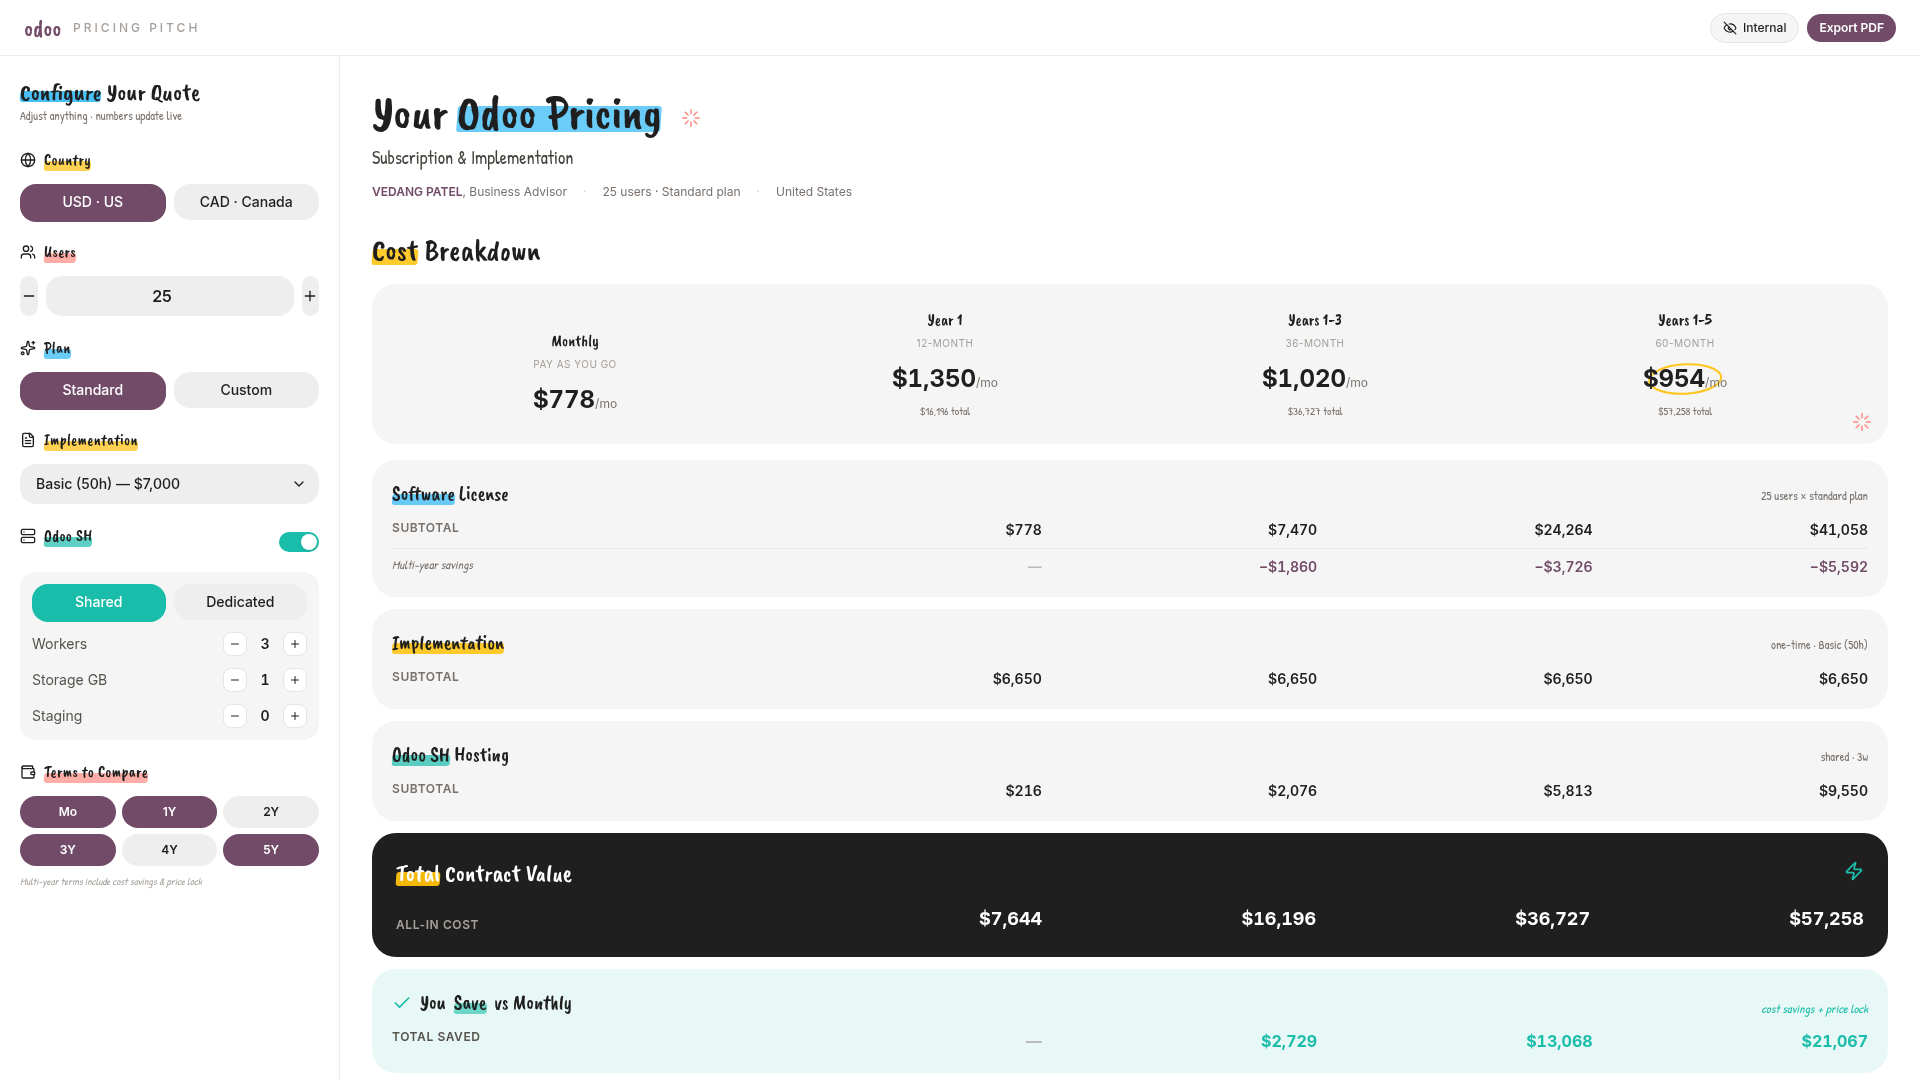
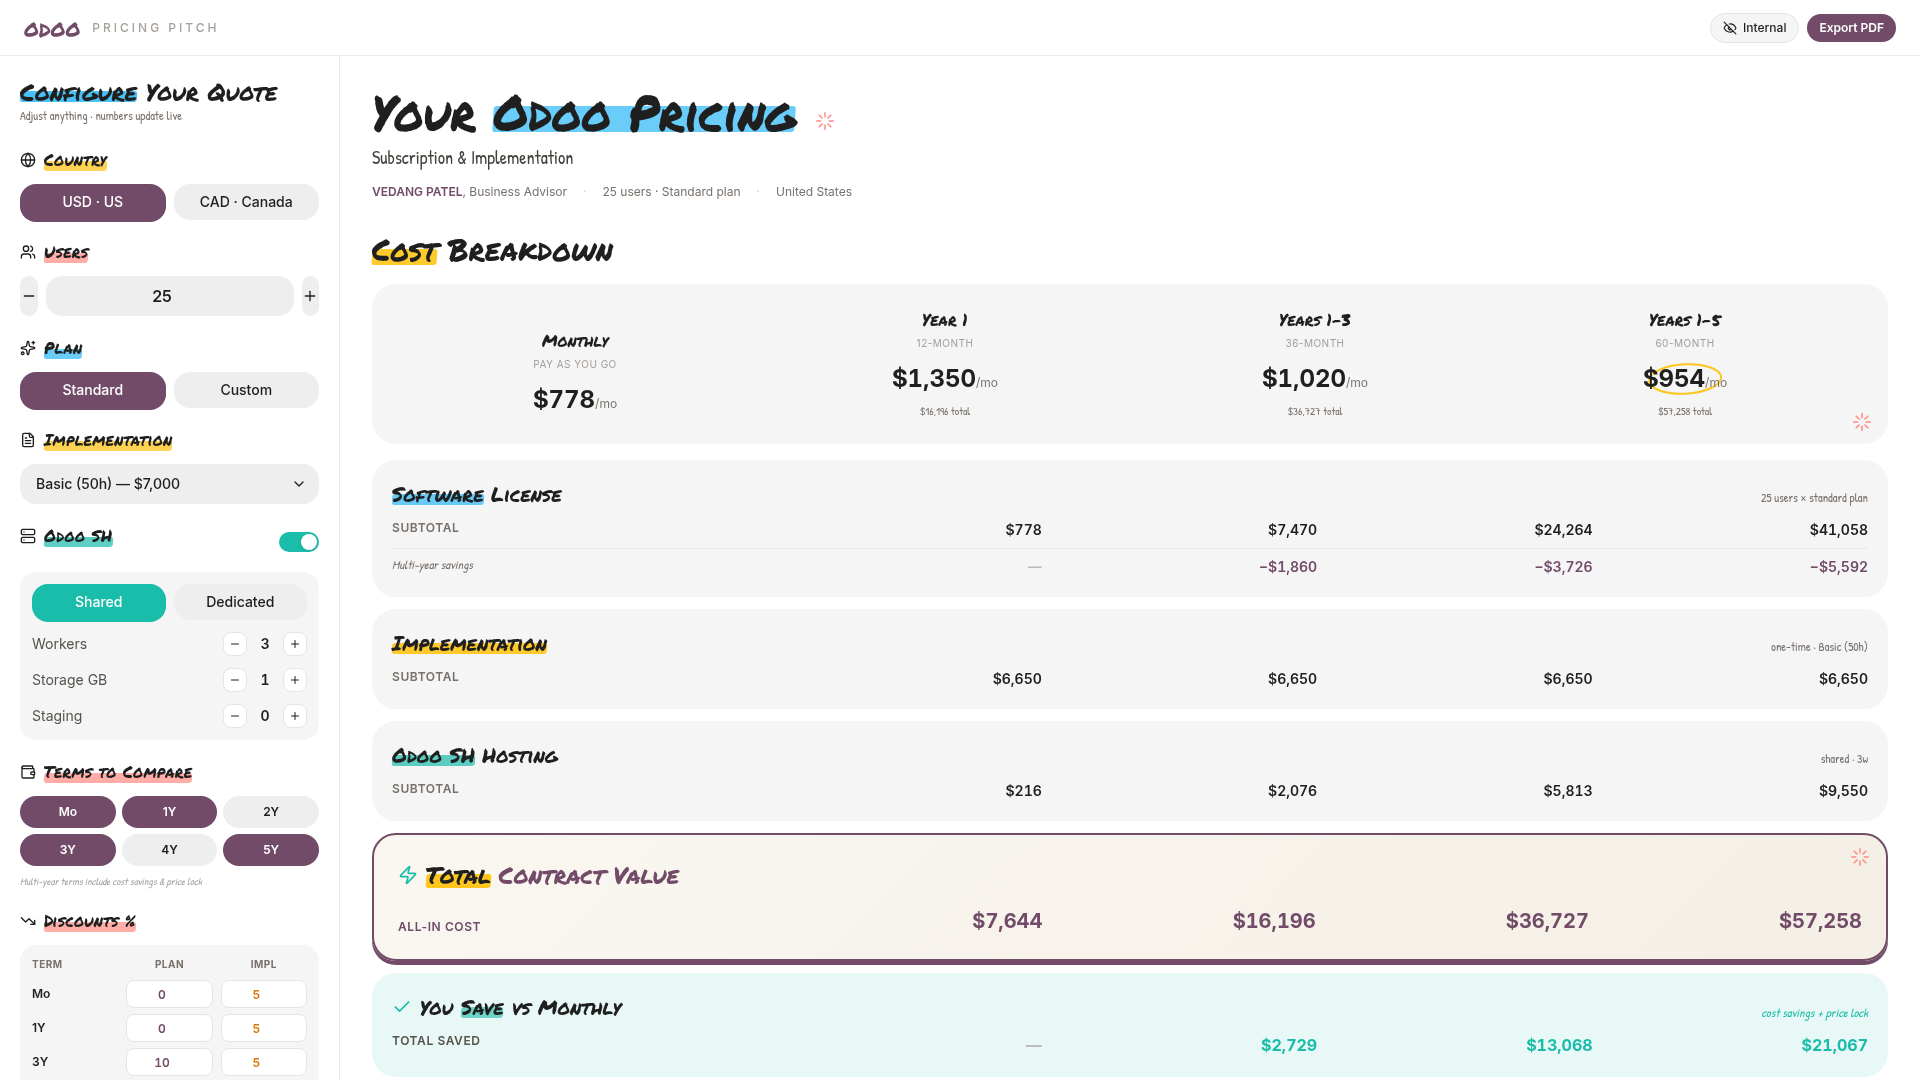
Enhance branded calculator mockup with interactive discounts and updated styling
Introduce a discount editing UI, update fonts to "Permanent Marker", refine card and band styling with cream/purple accents, and improve accessibility.

Replit-Commit-Author: Agent
Replit-Commit-Session-Id: 3d8e539f-c7fe-4d8f-8fbb-2aa09cfe4ce4
Replit-Commit-Checkpoint-Type: full_checkpoint
Replit-Commit-Event-Id: 24954e97-7e36-4e56-8fa7-3e2a61fc00f1
Replit-Commit-Screenshot-Url: https://storage.googleapis.com/screenshot-production-us-central1/c086b602-bdac-43aa-948f-36a5edc0eb58/3d8e539f-c7fe-4d8f-8fbb-2aa09cfe4ce4/TQv2wC8
Replit-Helium-Checkpoint-Created: true

diff --git a/artifacts/mockup-sandbox/src/components/mockups/odoo-calculator/InvestmentBrandPitch.tsx b/artifacts/mockup-sandbox/src/components/mockups/odoo-calculator/InvestmentBrandPitch.tsx
@@ -135,7 +135,7 @@ const BRAND = {
   cardAlt: "#F5F5F5",
 };
 
-const FONT_BRUSH = `'Caveat Brush', 'Permanent Marker', cursive`;
+const FONT_BRUSH = `'Permanent Marker', 'Caveat Brush', cursive`;
 const FONT_HAND = `'Patrick Hand', 'Architects Daughter', cursive`;
 const FONT_BODY = `'Inter', 'DM Sans', sans-serif`;
 
@@ -259,7 +259,7 @@ export function InvestmentBrandPitch() {
     monthly: true, "1year": true, "2year": false, "3year": true, "4year": false, "5year": true,
   });
 
-  const [discounts] = useState<Record<TermKey, { plan: number; impl: number }>>({
+  const [discounts, setDiscounts] = useState<Record<TermKey, { plan: number; impl: number }>>({
     monthly: { plan: 0, impl: 5 },
     "1year": { plan: 0, impl: 5 },
     "2year": { plan: 5, impl: 5 },
@@ -615,6 +615,73 @@ export function InvestmentBrandPitch() {
               Multi-year terms include cost savings & price lock
             </p>
           </div>
+
+          {/* Discounts editor */}
+          <div className="mb-5">
+            <SectionLabel icon={TrendingDown} color={BRAND.coral}>Discounts %</SectionLabel>
+            <div className="rounded-2xl p-3" style={{ background: BRAND.cardAlt }}>
+              <div className="grid grid-cols-3 gap-2 mb-2 text-[10px] font-bold tracking-wider uppercase text-stone-500">
+                <span>Term</span>
+                <span className="text-center">Plan</span>
+                <span className="text-center">Impl</span>
+              </div>
+              {activeTerms.map((t) => {
+                const planApplies = TERM_MONTHS[t] / 12 > 1;
+                return (
+                  <div key={t} className="grid grid-cols-3 gap-2 mb-1.5 items-center">
+                    <span className="text-xs font-semibold" style={{ fontFamily: FONT_BODY, color: BRAND.ink }}>
+                      {TERM_LABELS[t].short}
+                    </span>
+                    {planApplies ? (
+                      <input
+                        type="number"
+                        min={0}
+                        max={50}
+                        value={discounts[t].plan}
+                        onChange={(e) =>
+                          setDiscounts({
+                            ...discounts,
+                            [t]: { ...discounts[t], plan: Math.max(0, Math.min(50, parseInt(e.target.value) || 0)) },
+                          })
+                        }
+                        className="w-full h-7 text-center text-xs font-semibold rounded-lg outline-none bg-white border border-stone-200 tabular-nums"
+                        style={{ color: BRAND.purple, fontFamily: FONT_BODY }}
+                        aria-label={`${TERM_LABELS[t].short} plan discount percent`}
+                        data-testid={`input-disc-plan-${t}`}
+                      />
+                    ) : (
+                      <div
+                        className="w-full h-7 text-center text-xs rounded-lg bg-stone-100 border border-stone-200 flex items-center justify-center text-stone-400"
+                        title="Plan discount applies to multi-year terms only"
+                        aria-label={`${TERM_LABELS[t].short} plan discount not applicable`}
+                      >
+                        —
+                      </div>
+                    )}
+                    <input
+                      type="number"
+                      min={0}
+                      max={50}
+                      value={discounts[t].impl}
+                      onChange={(e) =>
+                        setDiscounts({
+                          ...discounts,
+                          [t]: { ...discounts[t], impl: Math.max(0, Math.min(50, parseInt(e.target.value) || 0)) },
+                        })
+                      }
+                      className="w-full h-7 text-center text-xs font-semibold rounded-lg outline-none bg-white border border-stone-200 tabular-nums"
+                      style={{ color: "#D97706", fontFamily: FONT_BODY }}
+                      aria-label={`${TERM_LABELS[t].short} implementation discount percent`}
+                      data-testid={`input-disc-impl-${t}`}
+                    />
+                  </div>
+                );
+              })}
+              <p className="mt-2 text-[10px] text-stone-400 italic" style={{ fontFamily: FONT_HAND }}>
+                Plan % applies years 2+ · Impl % is one-time
+              </p>
+            </div>
+          </div>
         </aside>
 
         {/* ── MAIN PANEL ── */}
@@ -771,22 +838,35 @@ export function InvestmentBrandPitch() {
                 </div>
               )}
 
-              {/* Total Contract — hero row, deck slide 4 styling */}
+              {/* Total Contract — cream + purple hero (no black) */}
               <div
-                className="rounded-3xl p-6 relative overflow-hidden"
-                style={{ background: BRAND.ink, color: "#FFFFFF" }}
+                className="rounded-3xl p-6 relative overflow-hidden border-2"
+                style={{
+                  background: "linear-gradient(135deg, #FAF7F1 0%, #F4EFE6 100%)",
+                  borderColor: BRAND.purple,
+                  boxShadow: `0 4px 0 ${BRAND.purple}`,
+                }}
               >
+                <div className="absolute top-3 right-4">
+                  <Sparkle color={BRAND.coral} />
+                </div>
                 <div className="flex items-baseline justify-between mb-4">
-                  <h3 className="text-2xl" style={{ fontFamily: FONT_BRUSH }}>
-                    <Marker color={BRAND.yellow} opacity={0.95} height="45%">Total</Marker>{" "}
-                    <span className="text-white">Contract Value</span>
+                  <h3 className="text-2xl flex items-center gap-2" style={{ fontFamily: FONT_BRUSH, color: BRAND.ink }}>
+                    <Zap className="w-5 h-5" style={{ color: BRAND.teal }} />
+                    <Marker color={BRAND.yellow} opacity={0.9} height="45%">Total</Marker>{" "}
+                    <span style={{ color: BRAND.purple }}>Contract Value</span>
                   </h3>
-                  <Zap className="w-5 h-5" style={{ color: BRAND.teal }} />
                 </div>
                 <div className="grid gap-2" style={{ gridTemplateColumns: `1.4fr repeat(${quotes.length}, 1fr)` }}>
-                  <span className="text-xs uppercase tracking-wider text-stone-400 font-semibold self-end">All-in cost</span>
+                  <span className="text-xs uppercase tracking-wider font-semibold self-end" style={{ color: BRAND.purple }}>
+                    All-in cost
+                  </span>
                   {quotes.map((q) => (
-                    <div key={q.termKey} className="text-right tabular-nums text-lg font-bold text-white">
+                    <div
+                      key={q.termKey}
+                      className="text-right tabular-nums text-xl font-bold"
+                      style={{ color: BRAND.purple, fontFamily: FONT_BODY }}
+                    >
                       {fmt0(q.totalContract)}
                     </div>
                   ))}
@@ -819,30 +899,37 @@ export function InvestmentBrandPitch() {
             </div>
           </div>
 
-          {/* ── INTERNAL · MRR / NRR — standalone partner card ── */}
+          {/* ── INTERNAL · MRR / NRR — partner-only cream card ── */}
           {internalView && (
-            <div className="mb-8 rounded-3xl p-6 relative" style={{ background: BRAND.ink, color: "#FFFFFF" }}>
+            <div
+              className="mb-8 rounded-3xl p-6 relative border-2"
+              style={{
+                background: "linear-gradient(135deg, #FAF7F1 0%, #F4EFE6 100%)",
+                borderColor: BRAND.purple,
+                borderStyle: "dashed",
+              }}
+            >
               <div className="flex items-center justify-between mb-4">
                 <div className="flex items-center gap-3">
                   <div
                     className="w-9 h-9 rounded-full flex items-center justify-center"
-                    style={{ background: "rgba(255,193,7,0.15)" }}
+                    style={{ background: `${BRAND.purple}1A` }}
                   >
-                    <Lock className="w-4 h-4" style={{ color: BRAND.yellow }} />
+                    <Lock className="w-4 h-4" style={{ color: BRAND.purple }} />
                   </div>
                   <div>
-                    <h3 className="text-xl leading-none" style={{ fontFamily: FONT_BRUSH }}>
-                      <Marker color={BRAND.yellow} opacity={0.95} height="45%">Partner</Marker>{" "}
-                      <span className="text-white">Recurring Revenue</span>
+                    <h3 className="text-xl leading-none" style={{ fontFamily: FONT_BRUSH, color: BRAND.ink }}>
+                      <Marker color={BRAND.yellow} opacity={0.85} height="45%">Partner</Marker>{" "}
+                      <span style={{ color: BRAND.purple }}>Recurring Revenue</span>
                     </h3>
-                    <p className="text-[11px] text-stone-400 mt-1" style={{ fontFamily: FONT_HAND }}>
+                    <p className="text-[11px] text-stone-500 mt-1" style={{ fontFamily: FONT_HAND }}>
                       Internal only · Partner share {Math.round(PARTNER_RECURRING_PCT * 100)}%
                     </p>
                   </div>
                 </div>
                 <span
-                  className="text-[10px] font-semibold tracking-wider uppercase px-2.5 py-1 rounded-full"
-                  style={{ background: "rgba(255,255,255,0.08)", color: BRAND.yellow }}
+                  className="text-[10px] font-semibold tracking-wider uppercase px-2.5 py-1 rounded-full text-white"
+                  style={{ background: BRAND.purple }}
                 >
                   Internal
                 </span>
@@ -850,25 +937,22 @@ export function InvestmentBrandPitch() {
 
               <div className="grid grid-cols-2 gap-4">
                 {[
-                  { label: "MRR", subtitle: "software + hosting / mo", icon: Repeat, getValue: (q: TermQuote) => (q.softwareSubtotal + q.shSubtotal) / q.months },
-                  { label: "NRR", subtitle: "net partner payout / mo", icon: Wallet, getValue: (q: TermQuote) => ((q.softwareSubtotal + q.shSubtotal) / q.months) * PARTNER_RECURRING_PCT },
+                  { label: "MRR", icon: Repeat, getValue: (q: TermQuote) => (q.softwareSubtotal + q.shSubtotal) / q.months },
+                  { label: "NRR", icon: Wallet, getValue: (q: TermQuote) => ((q.softwareSubtotal + q.shSubtotal) / q.months) * PARTNER_RECURRING_PCT },
                 ].map((row) => (
-                  <div key={row.label} className="rounded-2xl p-4" style={{ background: "rgba(255,255,255,0.05)" }}>
-                    <div className="flex items-center gap-1.5 mb-2">
-                      <row.icon className="w-3.5 h-3.5" style={{ color: BRAND.yellow }} />
-                      <span className="text-xs font-bold tracking-[0.2em] uppercase" style={{ color: BRAND.yellow }}>
+                  <div key={row.label} className="rounded-2xl p-4 bg-white/60 border border-stone-200">
+                    <div className="flex items-center gap-1.5 mb-3">
+                      <row.icon className="w-3.5 h-3.5" style={{ color: BRAND.purple }} />
+                      <span className="text-xs font-bold tracking-[0.2em] uppercase" style={{ color: BRAND.purple }}>
                         {row.label}
                       </span>
                     </div>
-                    <p className="text-[10px] text-stone-400 italic mb-2" style={{ fontFamily: FONT_HAND }}>
-                      {row.subtitle}
-                    </p>
                     <div className="space-y-1">
                       {quotes.map((q) => (
                         <div key={q.termKey} className="flex justify-between items-baseline text-sm">
-                          <span className="text-stone-400 text-[11px]">{TERM_LABELS[q.termKey].short}</span>
-                          <span className="font-semibold text-white tabular-nums">
-                            {fmt0(row.getValue(q))}<span className="text-[10px] text-stone-500 font-normal">/mo</span>
+                          <span className="text-stone-500 text-[11px]">{TERM_LABELS[q.termKey].short}</span>
+                          <span className="font-semibold tabular-nums" style={{ color: BRAND.ink }}>
+                            {fmt0(row.getValue(q))}
                           </span>
                         </div>
                       ))}

diff --git a/artifacts/mockup-sandbox/src/components/mockups/odoo-calculator/InvestmentCompact.tsx b/artifacts/mockup-sandbox/src/components/mockups/odoo-calculator/InvestmentCompact.tsx
@@ -640,7 +640,7 @@ export function InvestmentCompact() {
                   </div>
 
                   {/* SOFTWARE LICENSE — purple band */}
-                  <div className="px-4 py-4 border-l-[5px] border-[#714B67]" style={{ background: "linear-gradient(90deg, rgba(113,75,103,0.05) 0%, rgba(113,75,103,0.01) 100%)" }}>
+                  <div className="px-4 py-4" style={{ background: "linear-gradient(90deg, rgba(113,75,103,0.05) 0%, rgba(113,75,103,0.01) 100%)", boxShadow: "inset 6px 0 0 #714B67" }}>
                     <div className="flex mb-2.5 items-baseline">
                       <Lbl className="font-serif italic text-base text-stone-900">Software License</Lbl>
                       {quotes.map((q) => (
@@ -692,7 +692,7 @@ export function InvestmentCompact() {
 
                   {/* IMPLEMENTATION — amber band */}
                   {implPrice > 0 && (
-                    <div className="px-4 py-4 border-l-[5px] border-amber-500 border-t border-stone-200/40" style={{ background: "linear-gradient(90deg, rgba(245,158,11,0.05) 0%, rgba(245,158,11,0.01) 100%)" }}>
+                    <div className="px-4 py-4 border-t border-stone-200/40" style={{ background: "linear-gradient(90deg, rgba(245,158,11,0.05) 0%, rgba(245,158,11,0.01) 100%)", boxShadow: "inset 6px 0 0 #F59E0B" }}>
                       <div className="flex mb-2.5 items-baseline">
                         <Lbl className="font-serif italic text-base text-stone-900">
                           Implementation
@@ -734,7 +734,7 @@ export function InvestmentCompact() {
 
                   {/* SH HOSTING — teal band */}
                   {shEnabled && (
-                    <div className="px-4 py-4 border-l-[5px] border-[#017E84] border-t border-stone-200/40" style={{ background: "linear-gradient(90deg, rgba(1,126,132,0.05) 0%, rgba(1,126,132,0.01) 100%)" }}>
+                    <div className="px-4 py-4 border-t border-stone-200/40" style={{ background: "linear-gradient(90deg, rgba(1,126,132,0.05) 0%, rgba(1,126,132,0.01) 100%)", boxShadow: "inset 6px 0 0 #017E84" }}>
                       <div className="flex mb-2.5 items-baseline">
                         <Lbl className="font-serif italic text-base text-stone-900">
                           Odoo SH Hosting
@@ -825,44 +825,46 @@ export function InvestmentCompact() {
                   </div>
                 </div>
 
-                {/* ── INTERNAL · RECURRING REVENUE — standalone partner-only card ── */}
+                {/* ── INTERNAL · RECURRING REVENUE — partner-only cream card ── */}
                 {internalView && (
                   <div
-                    className="mt-6 rounded-lg overflow-hidden shadow-md border"
-                    style={{ background: "linear-gradient(135deg, #2D2030 0%, #1F1623 100%)", borderColor: "rgba(255,255,255,0.08)" }}
+                    className="mt-6 rounded-lg overflow-hidden border border-stone-200 shadow-sm"
+                    style={{ background: "linear-gradient(135deg, #FAF7F1 0%, #F4EFE6 100%)" }}
                   >
-                    <div className={`${sectionPadX} py-3 flex items-center justify-between border-b border-white/10`}>
+                    <div className={`${sectionPadX} py-3 flex items-center justify-between border-b border-stone-200/70`}>
                       <div className="flex items-center gap-2">
-                        <div className="w-7 h-7 rounded-full flex items-center justify-center" style={{ background: "rgba(252,211,77,0.15)" }}>
-                          <Lock className="w-3.5 h-3.5 text-amber-300" />
+                        <div className="w-7 h-7 rounded-full flex items-center justify-center" style={{ background: "rgba(113,75,103,0.1)" }}>
+                          <Lock className="w-3.5 h-3.5 text-[#714B67]" />
                         </div>
                         <div>
-                          <p className="text-[10px] font-bold tracking-[0.25em] text-amber-300 uppercase">
+                          <p className="text-[10px] font-bold tracking-[0.25em] text-[#714B67] uppercase">
                             Internal · Recurring Revenue
                           </p>
-                          <p className="text-[10px] text-stone-400 italic">
+                          <p className="text-[10px] text-stone-500 italic">
                             Partner share {Math.round(PARTNER_RECURRING_PCT * 100)}% · not visible to client
                           </p>
                         </div>
                       </div>
-                      <span className="text-[10px] font-semibold tracking-wider uppercase px-2 py-0.5 rounded-full text-amber-200" style={{ background: "rgba(255,255,255,0.06)", border: "1px solid rgba(255,255,255,0.1)" }}>
+                      <span
+                        className="text-[10px] font-semibold tracking-wider uppercase px-2 py-0.5 rounded-full text-white"
+                        style={{ background: "#714B67" }}
+                      >
                         Internal Only
                       </span>
                     </div>
 
-                    <div className={`flex items-center ${sectionPadX} py-3 border-b border-white/5`}>
+                    <div className={`flex items-center ${sectionPadX} py-3 border-b border-stone-200/60`}>
                       <Lbl>
                         <div className="flex items-center gap-1.5">
-                          <Repeat className="w-3 h-3 text-amber-300" />
-                          <p className="text-[11px] font-bold tracking-[0.2em] text-amber-300 uppercase">MRR</p>
+                          <Repeat className="w-3 h-3 text-[#714B67]" />
+                          <p className="text-[11px] font-bold tracking-[0.2em] text-[#714B67] uppercase">MRR</p>
                         </div>
-                        <p className="text-[10px] text-stone-400 italic mt-0.5 ml-4">software + hosting / month</p>
                       </Lbl>
                       {quotes.map((q) => {
                         const mrr = (q.softwareSubtotal + q.shSubtotal) / q.months;
                         return (
-                          <HCell key={q.termKey} className="text-sm font-bold text-white tabular-nums">
-                            {fmt0(mrr)}<span className="text-[10px] text-stone-500 font-normal">/mo</span>
+                          <HCell key={q.termKey} className="text-sm font-bold text-stone-900 tabular-nums">
+                            {fmt0(mrr)}
                           </HCell>
                         );
                       })}
@@ -871,17 +873,16 @@ export function InvestmentCompact() {
                     <div className={`flex items-center ${sectionPadX} py-3`}>
                       <Lbl>
                         <div className="flex items-center gap-1.5">
-                          <Wallet className="w-3 h-3 text-amber-300" />
-                          <p className="text-[11px] font-bold tracking-[0.2em] text-amber-300 uppercase">NRR</p>
+                          <Wallet className="w-3 h-3 text-[#714B67]" />
+                          <p className="text-[11px] font-bold tracking-[0.2em] text-[#714B67] uppercase">NRR</p>
                         </div>
-                        <p className="text-[10px] text-stone-400 italic mt-0.5 ml-4">net recurring · partner payout</p>
                       </Lbl>
                       {quotes.map((q) => {
                         const mrr = (q.softwareSubtotal + q.shSubtotal) / q.months;
                         const nrr = mrr * PARTNER_RECURRING_PCT;
                         return (
-                          <HCell key={q.termKey} className="text-sm font-bold text-white tabular-nums">
-                            {fmt0(nrr)}<span className="text-[10px] text-stone-500 font-normal">/mo</span>
+                          <HCell key={q.termKey} className="text-sm font-bold text-stone-900 tabular-nums">
+                            {fmt0(nrr)}
                           </HCell>
                         );
                       })}
